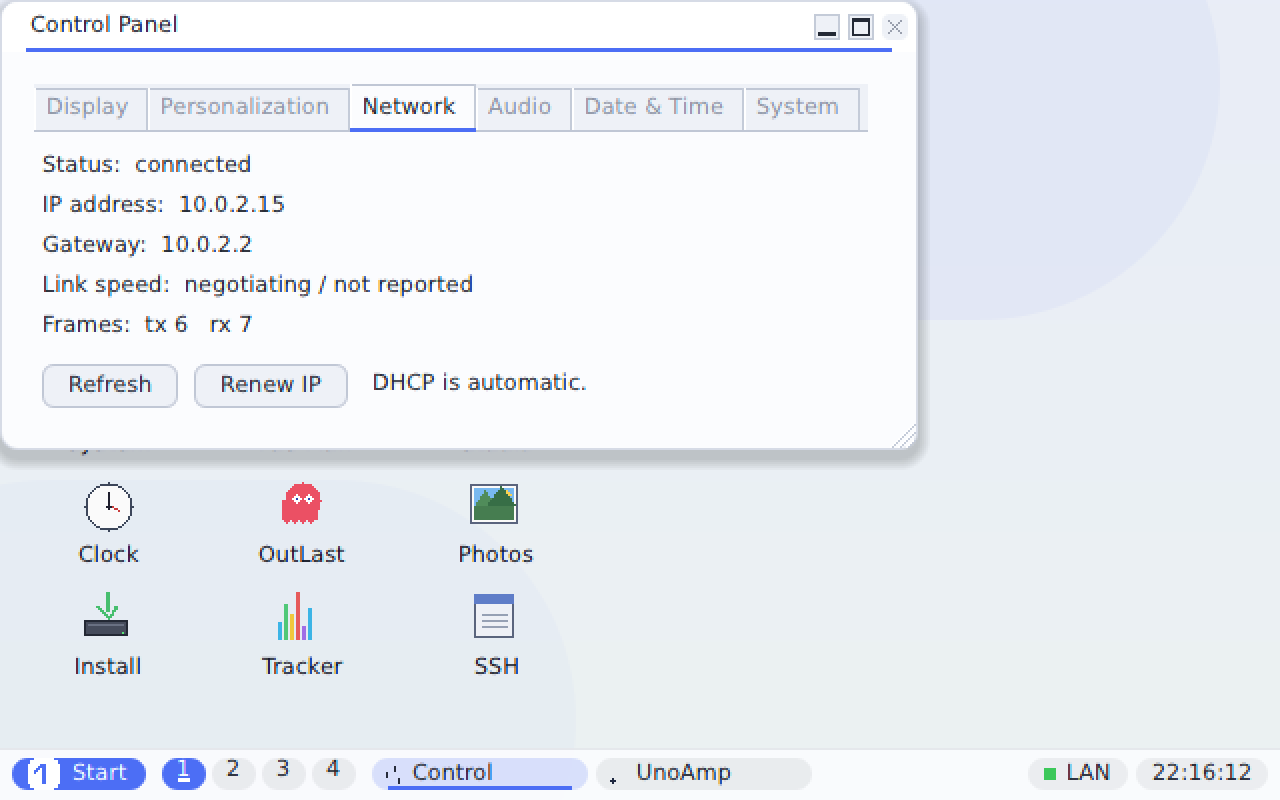
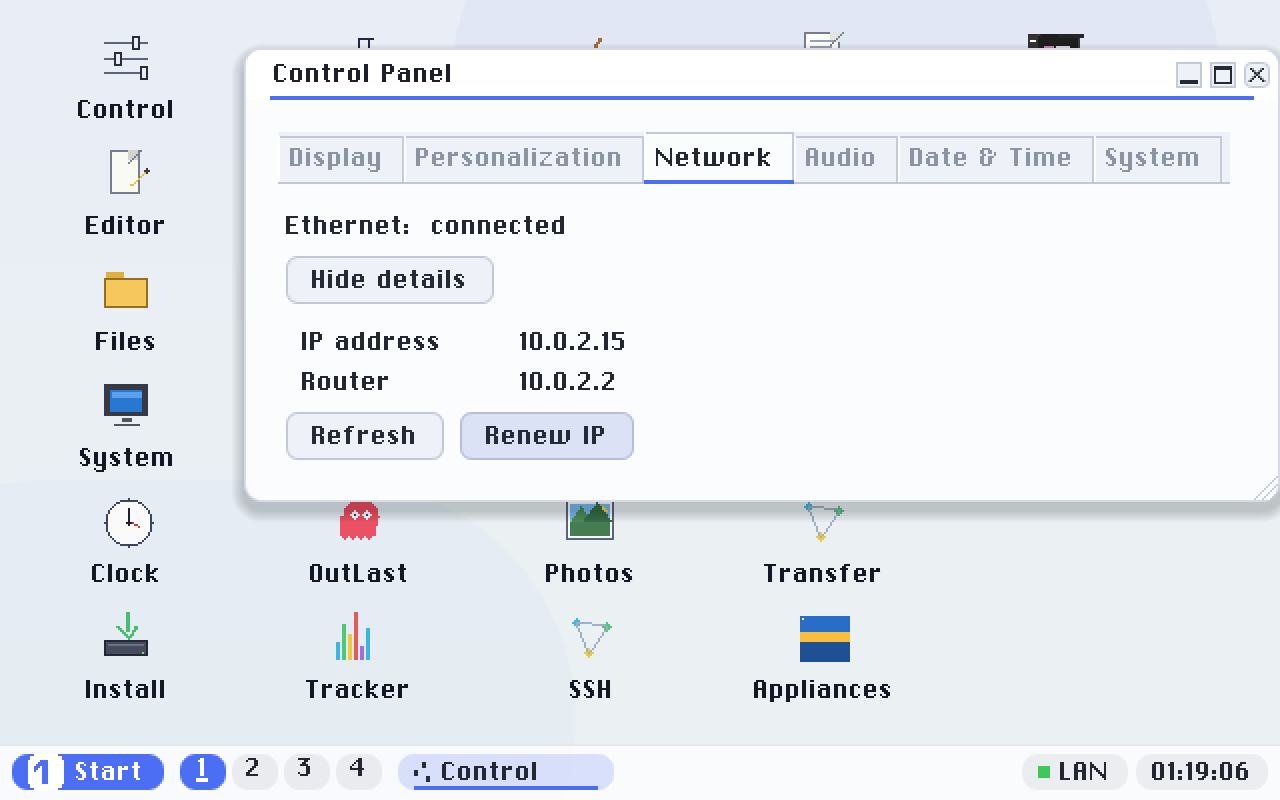
manual: catch up with master - Wi-Fi joins, the Network pane, the Android appliance
The Networking page said Wi-Fi was not usable and described a Network tab
that no longer exists. Now: Intel Wi-Fi joins a WPA2 network and takes an
address on a Surface Laptop Go (the claim stops where the metal evidence
stops - WPA3 authenticates but its handshake does not complete, switching
networks after a join is unreliable, the boot-time rejoin is fixed but not
yet watched on hardware); the Control Panel's Network tab leads with the
answer, keeps the addresses behind Details, and on a Wi-Fi machine carries
the network list and the only buttons that can act; the Network app is the
same summary with the self-test behind Run tests, not retired; the tray chip
names its medium. The driver tables on Overview and Developer say the same.

Appliances: the Android runtime boots to Firefox on the network from a cold
boot with nobody driving it (P1), installing an APK is real (P2), and
opening the installed app still says the runtime is not connected (P3 is
plan). Two figures from that unattended boot are added.

Figures: cp_network.png retaken on the production build, with Details open
(docs_shots walks the Tab order: Details, then Refresh). cp_wifi.png is the
Wi-Fi pane under DEBUG.CFG wifi-demo via tools/wifiui_shot.py, upscaled 2x
nearest-neighbour so it matches the other figures, which are 640x400
desktops presented at 1280x800; its caption says the networks are seeded.

Harness: unoapps retries a failed app once on a fresh guest, and waits up
[…]

diff --git a/docs/networking.html b/docs/networking.html
@@ -83,17 +83,19 @@
 <main class="main"><div class="wrap">
 
 <h1>Networking</h1>
-<p class="lede">UnoDOS can get online by itself: it connects over Ethernet, gets an address automatically,
-and browses the web, including secure sites.</p>
+<p class="lede">UnoDOS can get online by itself: it connects over Ethernet, and over Wi-Fi on Intel adapters,
+gets an address automatically, and browses the web, including secure sites.</p>
 
 <h2 id="online">Getting online</h2>
-<p>UnoDOS has its own built-in networking. On a PC with a supported wired network adapter, it gets an
-address automatically (DHCP), resolves names (DNS), finds the gateway and other machines, and browses the
-web over HTTP and HTTPS. Nothing else needs to be installed.</p>
+<p>UnoDOS has its own built-in networking. On a PC with a supported wired network adapter, or a supported
+Intel Wi-Fi adapter, it gets an address automatically (DHCP), resolves names (DNS), finds the gateway and
+other machines, and browses the web over HTTP and HTTPS. Nothing else needs to be installed.</p>
 <p>A small <strong>network chip</strong> sits in the taskbar tray so you can see the state at a
-glance: <strong>LAN</strong> when it has an address, <strong>LAN?</strong> when the cable is live but no
+glance: it names the medium - <strong>LAN</strong> over a cable, <strong>Wi-Fi</strong> over the air -
+with a question mark after it (<strong>LAN?</strong>, <strong>Wi-Fi?</strong>) while the link is up but no
 address has arrived yet, and nothing when the link is down. A dot beside it blinks on traffic - amber while
-sending, green while receiving - and hovering the chip shows a tooltip with the current address and link speed.
+sending, green while receiving. Hovering the chip shows a tooltip: on Wi-Fi it leads with the network's name
+and signal, on a cable with the address and link speed.
 The <a href="apps.html#native">System</a> app spells it out in full, for example
 <code>Network: link up, IP 192.168.2.157</code>.</p>
 
@@ -112,11 +114,20 @@ with an onboard RTL8168 links at gigabit, takes a DHCP address and browses, with
 <div class="note"><b>How this is verified</b>The Intel drivers are verified in the emulator against the QEMU e1000 / e1000e / igb models, and the Realtek driver on a real machine. Most test <em>laptops</em> have no wired port, so the built-in NIC on any given laptop may not have been exercised end to end - if a built-in port does not come up, a supported USB Ethernet adapter (below) is the reliable path.</div>
 
 <h2 id="status">Checking the connection</h2>
-<p>The <strong>Network</strong> tab in the <a href="appearance.html#control">Control Panel</a> shows the live
-connection in full: the status, the address and gateway from DHCP, the link speed, and a running count of the
-frames sent and received. A <strong>Refresh</strong> button re-reads it on demand.</p>
-<figure><button type="button" class="zoom" data-full="assets/img/cp_network.png" aria-label="Enlarge: The Control Panel&#x27;s Network tab: connected, with a DHCP address and gateway and the frame counters ticking. The green LAN chip in the tray corner mirrors the same state."><img src="assets/img/cp_network.png" alt="The Control Panel&#x27;s Network tab: connected, with a DHCP address and gateway and the frame counters ticking. The green LAN chip in the tray corner mirrors the same state." loading="lazy"></button><figcaption>The Control Panel's Network tab: connected, with a DHCP address and gateway and the frame counters ticking. The green <b>LAN</b> chip in the tray corner mirrors the same state.</figcaption></figure>
-<div class="note"><b>Where the old self-test went</b>A standalone "Network" app used to run a scripted link/DHCP/ping/TLS self-test. That app was retired - its live status moved here to the Control Panel, and the automated self-test now runs at boot on debug builds (armed from <code>DEBUG.CFG</code>) and logs to <code>CRASH\\NETLOG.TXT</code>.</div>
+<p>The <strong>Network</strong> tab in the <a href="appearance.html#control">Control Panel</a> answers the
+question first and keeps the detail for later. On a wired machine it is one line - <em>Ethernet: connected -
+1 Gbps</em>, or <em>cable in, no address</em> while DHCP is still at work - and a <strong>Details</strong>
+button that opens the addresses underneath: the IP address, the router, and on a machine with Wi-Fi the
+adapter's own address, with <strong>Refresh</strong> and <strong>Renew IP</strong> under them.</p>
+<figure><button type="button" class="zoom" data-full="assets/img/cp_network.png" aria-label="Enlarge: The Control Panel&#x27;s Network tab on a wired machine, with Details open: the Ethernet line, then the addresses. The green LAN chip in the tray corner mirrors the same state."><img src="assets/img/cp_network.png" alt="The Control Panel&#x27;s Network tab on a wired machine, with Details open: the Ethernet line, then the addresses. The green LAN chip in the tray corner mirrors the same state." loading="lazy"></button><figcaption>The Control Panel's Network tab on a wired machine, with Details open: the Ethernet line, then the addresses. The green <b>LAN</b> chip in the tray corner mirrors the same state.</figcaption></figure>
+<p>On a machine with a Wi-Fi adapter the tab grows. It leads with <em>Connected to</em> and the network's
+name, with the signal, WPA2 or WPA3, and the address on the line under it. Then the networks in range, each
+with a padlock if it is secured, a four-bar signal meter, and a <em>Connected</em> or <em>Saved</em> marker.
+A password box appears only when the highlighted network is locked and new to this machine, and the buttons
+are only the ones that can do something at that moment: <strong>Connect</strong>, <strong>Disconnect</strong>,
+<strong>Forget</strong>, <strong>Rescan</strong>. The wired line and Details follow underneath.</p>
+<figure><button type="button" class="zoom" data-full="assets/img/cp_wifi.png" aria-label="Enlarge: The same tab on a machine with Wi-Fi: the answer, the networks, the controls, then the wired line and Details. Captured in the emulator, which has no Wi-Fi card, with a debug switch that draws the pane and seeds example networks - the pane says so on screen. On a laptop the list is what the radio hears."><img src="assets/img/cp_wifi.png" alt="The same tab on a machine with Wi-Fi: the answer, the networks, the controls, then the wired line and Details. Captured in the emulator, which has no Wi-Fi card, with a debug switch that draws the pane and seeds example networks - the pane says so on screen. On a laptop the list is what the radio hears." loading="lazy"></button><figcaption>The same tab on a machine with Wi-Fi: the answer, the networks, the controls, then the wired line and Details. Captured in the emulator, which has no Wi-Fi card, with a debug switch that draws the pane and seeds example networks - the pane says so on screen. On a laptop the list is what the radio hears.</figcaption></figure>
+<div class="note"><b>The Network app</b>The <strong>Network</strong> app in the Start menu shows the same summary in the same words, and keeps the network self-test - DHCP, a ping, a small file fetch, a TCP echo and a TLS handshake - behind a <strong>Run tests</strong> button rather than running it every time the window opens. The echo and TLS steps only have a peer under QEMU, so on a real machine those two time out rather than pass; the rest are real.</div>
 
 <h2 id="tls">Secure sites</h2>
 <p>Secure (<code>https://</code>) pages load over an encrypted TLS connection, and UnoDOS checks the site's
@@ -139,23 +150,25 @@ Two chip families are supported - check a listing's chipset line before you buy:
 <div class="note tip"><b>Tested on metal</b>An ASIX AX88179A adapter has been taken all the way to a DHCP lease and a gateway ping on a real laptop (a ThinkPad X13 Yoga). The older ASIX AX88772 / AX88178A chips are <em>not</em> supported.</div>
 
 <h2 id="wifi">Wi-Fi</h2>
-<p><strong>Wi-Fi is not usable yet</strong>, though it is closer than it was. UnoDOS ships drivers for
-Intel (AX201 / AX210), Realtek and Marvell wireless chips. On Intel hardware the driver now loads the
-adapter's firmware, scans, <strong>joins a WPA2 network and installs the encryption keys</strong> - a real
-association, proven on a laptop. What does not yet work is the step after that: the network never hands
-back an address, so nothing can actually be reached. <strong>Use a wired port or a USB Ethernet adapter
-to get online.</strong></p>
+<p><strong>Wi-Fi works on Intel hardware, on one machine so far.</strong> UnoDOS ships drivers for
+Intel (AX201 / AX210), Realtek and Marvell wireless chips. On a Surface Laptop Go with an Intel AX201 the
+driver loads the adapter's firmware, scans, <strong>joins a WPA2 network and takes an address</strong> - a
+real association followed by a real DHCP lease, on the laptop rather than in the emulator. The Realtek and
+Marvell drivers still stop after loading firmware: they do not associate yet. <strong>On anything else, a
+wired port or a USB Ethernet adapter is still the sure way to get online.</strong></p>
+<p>Joining is done from the Control Panel's <strong>Network</strong> tab, described <a href="#status">above</a>:
+pick a network, type its password if it is locked and new to this machine, and press <strong>Connect</strong>.
+The password is kept, so the network shows as <em>Saved</em> and the next join asks for nothing;
+<strong>Forget</strong> discards it, and <strong>Disconnect</strong> leaves the network while keeping the
+radio on, so the list stays live. A machine that boots with a saved network in range is meant to rejoin it
+by itself; that boot-time join has been fixed but not yet watched on hardware.</p>
 <p>UnoDOS also speaks <strong>WPA3</strong> now, which matters more than it sounds: a modern access
 point with protected management frames required will refuse a machine that cannot offer them, and a
 6 GHz network is WPA3-only by regulation, so a WPA2-only machine is not "older", it is locked out.
 The supplicant reads what the access point is actually offering and negotiates, rather than
 announcing WPA2 and hoping - WPA2-PSK or WPA3-SAE, with management-frame protection when it is asked
 for, and SAE preferred on a network that offers both.</p>
-<div class="note warn"><b>WPA3: not yet proven on hardware</b>The WPA3 path is verified end to end against test vectors on a development machine, but it has <em>not</em> yet completed a join against a real access point. Treat it as written and tested, not as proven on your network.</div>
-<p>The Control Panel's <strong>Network</strong> tab already carries the interface it will use - a scan
-list, a password box and a <strong>Join</strong> button, with a spinner and a running description of each
-step while it works, since a join takes several seconds. Networks you join are remembered, so the machine
-can rejoin the last one by itself at the next boot.</p>
+<div class="note warn"><b>What does not work yet</b>The WPA3 exchange authenticates against a real access point, but the handshake after it does not complete yet, so on a network that offers both WPA3 and WPA2 UnoDOS falls back to WPA2 and joins. A WPA3-only network cannot be joined today. Two more limits are worth knowing: changing to a different network after a successful join does not work reliably yet, and a reboot is the sure way to do it; and the join itself holds the desktop for the few seconds the association takes, with a spinner and a running description of each step.</div>
 
 <h2 id="emulator">Networking in the browser</h2>
 <p>UnoDOS <a href="https://unodos.arinbakht.com/try/">running in a browser tab</a> has a working network

diff --git a/docs/appliances.html b/docs/appliances.html
@@ -145,7 +145,9 @@ understands, and it holds up to eight appliances.</p>
 <p>The same machinery is meant to end somewhere specific: you double-click an Android <code>.APK</code>
 in Files, an icon appears on the desktop, and opening it opens a window. No launcher, and nothing on
 screen that says "Android".</p>
-<div class="note warn"><b>Installing works, running does not</b><b>Half of that works today.</b> Installing is real: UnoDOS reads the package, registers it, and the icon appears without a reboot. <b>Opening it does not run anything yet</b> - the channel between the app and the Android runtime is the next piece of work, so the app tells you the runtime is not connected. The Android runtime itself does boot on the appliance kernel. Treat this section as a description of where it is going, not as a feature to use.</div>
+<div class="note warn"><b>Installing works, the runtime runs, opening does not yet</b><b>Installing works, and the runtime runs; the two are not joined yet.</b> Installing is real: UnoDOS reads the package, registers it, the icon appears without a reboot, and it is still there after a restart. The Android runtime is real too: the appliance boots, starts the Android container, installs the app it carries and puts it on screen full-size and on the network, from a cold boot with nobody driving it - the two figures below are that boot. What is missing is the channel between the desktop icon and that runtime, so <b>opening an installed foreign app today tells you the runtime is not connected</b>. Treat this section as a description of where it is going, not as a feature to use.</div>
+<figure><button type="button" class="zoom" data-full="assets/img/android_launch.png" aria-label="Enlarge: The Android appliance, booted with nobody driving it: Firefox full-screen, with no launcher and no status bar in sight."><img src="assets/img/android_launch.png" alt="The Android appliance, booted with nobody driving it: Firefox full-screen, with no launcher and no status bar in sight." loading="lazy"></button><figcaption>The Android appliance, booted with nobody driving it: Firefox full-screen, with no launcher and no status bar in sight.</figcaption></figure>
+<figure><button type="button" class="zoom" data-full="assets/img/android_firefox.png" aria-label="Enlarge: The same appliance a moment later: a real page over TLS, its address typed on the keyboard UnoDOS presents to the guest."><img src="assets/img/android_firefox.png" alt="The same appliance a moment later: a real page over TLS, its address typed on the keyboard UnoDOS presents to the guest." loading="lazy"></button><figcaption>The same appliance a moment later: a real page over TLS, its address typed on the keyboard UnoDOS presents to the guest.</figcaption></figure>
 <p>One consequence is worth knowing even at this stage: the package file is <strong>not copied</strong>
 onto the UnoDOS disk, because the filesystem underneath writes whole files only and a large package would
 have to be held in memory all at once. The installed app remembers where you put the package, so deleting

diff --git a/docs/dev-api.html b/docs/dev-api.html
@@ -226,7 +226,7 @@ int  fb_big_text(int x,int y,const char *s,fb_px fg,long bg,int scale);
 <tr><td><code>pc64_http</code> / <code>pc64_browser</code> / <code>js</code></td><td>HTTP/1.0 GET with DNS, the immediate-mode HTML/Markdown/CSS renderer, and the JavaScript interpreter.</td></tr>
 <tr><td><code>tls</code> / <code>bearssl</code></td><td>Freestanding BearSSL, TLS 1.2, with pinned-key and CA-validated (14 roots) modes; clock from the UEFI RTC.</td></tr>
 <tr><td><code>xhci</code> / <code>ax88179</code> / <code>rtl8152</code> / <code>usbmsc</code></td><td>Opt-in (<code>-DUNO_XHCI</code>) polled xHCI host, ASIX and Realtek USB-gigabit drivers (each publishing a <code>uno_nic_t</code>), and USB mass storage (Bulk-Only Transport).</td></tr>
-<tr><td><code>iwlwifi</code> / <code>rtwifi</code> / <code>mrvlwifi</code></td><td>Early Intel (AX201/AX210), Realtek and Marvell Wi-Fi drivers. They map the device and load its firmware, but association is not yet working on any hardware.</td></tr>
+<tr><td><code>iwlwifi</code> / <code>rtwifi</code> / <code>mrvlwifi</code></td><td>Intel (AX201/AX210), Realtek and Marvell Wi-Fi drivers. The Intel driver loads firmware, scans, joins a WPA2 network and holds a DHCP lease on real hardware (a Surface Laptop Go); WPA3 authenticates but its handshake does not complete yet. Realtek and Marvell map the device and load its firmware, but do not associate yet.</td></tr>
 <tr><td><code>pc64_font</code></td><td>Optional TrueType engine; registers as the fb text provider with subpixel smoothing, falling back to the built-in bitmap font.</td></tr>
 <tr><td><code>unovirt</code> / <code>hv_vmx</code> / <code>hv_svm</code> / <code>unovdev</code></td><td>The hypervisor behind <a href="appliances.html">Appliances</a>: a capability gate that says whether this machine can host a guest and why not, a backend seam with Intel VMX and AMD SVM implementations, second-stage paging into a memory carve taken at detach, a budgeted slice run from the shell's frame loop, and virtio-mmio device models (console, block, net) plus the 8250 and 8259 a Linux kernel expects. Proven on VMX; the SVM side builds but has not yet run a guest. See <a href="https://github.com/hmofet/unodos/blob/master/pc64/UNOVIRT.md" target="_blank" rel="noopener"><code>UNOVIRT.md</code></a>.</td></tr>
 </tbody>

diff --git a/docs/developer.html b/docs/developer.html
@@ -105,7 +105,7 @@ no host C library, no underlying OS. It ships two interchangeable desktops, sele
 <tr><td><strong>Toolkit (unoui)</strong></td><td>The portable widget core: windows, widgets, events, and a swappable theme (ten themes ship).</td></tr>
 <tr><td><strong>Framebuffer (fb)</strong></td><td>A 32-bit software framebuffer: clipping, alpha blend, gradients, anti-aliased rounded rects, fractional fill-scaling, and dirty-row present-on-change.</td></tr>
 <tr><td><strong>Platform (UEFI)</strong></td><td>A hand-rolled UEFI surface: the GOP framebuffer, keyboard, pointer, and Boot Services. No gnu-efi or EDK2.</td></tr>
-<tr><td><strong>Drivers (tail)</strong></td><td>Intel e1000 / e1000e / igb NICs (plus a Realtek RTL816x driver) and the TCP/IP + TLS stack, xHCI USB with ASIX and Realtek USB Ethernet, native AHCI / NVMe / SDHCI and USB mass storage, HD&nbsp;Audio and AC'97 PCM audio, early Intel/Realtek/Marvell Wi-Fi (firmware loads, not yet connecting), uno3d 3D, UnoSound, and the TrueType engine.</td></tr>
+<tr><td><strong>Drivers (tail)</strong></td><td>Intel e1000 / e1000e / igb NICs (plus a Realtek RTL816x driver) and the TCP/IP + TLS stack, xHCI USB with ASIX and Realtek USB Ethernet, native AHCI / NVMe / SDHCI and USB mass storage, HD&nbsp;Audio and AC'97 PCM audio, Intel Wi-Fi (AX201 / AX210: joins a WPA2 network and takes an address, on one laptop so far) and early Realtek / Marvell Wi-Fi (firmware loads, not yet connecting), uno3d 3D, UnoSound, and the TrueType engine.</td></tr>
 <tr><td><strong>Device manager (unodevices)</strong></td><td>Enumerates the PCI tree into a registry that reports every device and which driver, if any, claimed it - surfaced on-device through the <code>devices</code> remote verb and <code>uno.devices()</code>/<code>uno.pci()</code>. Read-only introspection today; driver auto-binding is a planned phase. A <a href="dev-remote.html#hwwdt">hardware-watchdog</a> primitive (the PCH TCO) lives alongside it as the remote guard's last-resort backstop.</td></tr>
 </tbody>
 </table></div>

diff --git a/docs/appearance.html b/docs/appearance.html
@@ -94,7 +94,7 @@ the Start menu, and its settings are grouped into <strong>six tabs</strong>:</p>
 <tbody>
 <tr><td><strong>Display</strong></td><td>Resolution, system-wide Font, UI scale (100&ndash;200%), and an "Aurora lite" switch that turns off live compositing on slower machines.</td></tr>
 <tr><td><strong>Personalization</strong></td><td>Theme, Dark mode, Wallpaper, and how the desktop icons arrange themselves.</td></tr>
-<tr><td><strong>Network</strong></td><td>Live connection status - address, gateway, link speed - with a Refresh button. See <a href="networking.html#status">Networking</a>.</td></tr>
+<tr><td><strong>Network</strong></td><td>The connection summary in the Control Panel's words, and the network self-test behind a Run tests button. See <a href="networking.html#status">Networking</a>.</td></tr>
 <tr><td><strong>Audio</strong></td><td>The Volume slider (it adjusts the output live, even mid-note, on HD&nbsp;Audio or AC'97 hardware) and the active output device.</td></tr>
 <tr><td><strong>Date &amp; Time</strong></td><td>Set the time and date, and choose a 24-hour or 12-hour clock.</td></tr>
 <tr><td><strong>System</strong></td><td>Battery display, session restore, lid-sleep, pointer speed, and buttons for accounts, licences and About.</td></tr>

diff --git a/docs/build_site.py b/docs/build_site.py
@@ -1298,7 +1298,7 @@ the Start menu, and its settings are grouped into <strong>six tabs</strong>:</p>
 <tbody>
 <tr><td><strong>Display</strong></td><td>Resolution, system-wide Font, UI scale (100&ndash;200%), and an "Aurora lite" switch that turns off live compositing on slower machines.</td></tr>
 <tr><td><strong>Personalization</strong></td><td>Theme, Dark mode, Wallpaper, and how the desktop icons arrange themselves.</td></tr>
-<tr><td><strong>Network</strong></td><td>Live connection status - address, gateway, link speed - with a Refresh button. See <a href="networking.html#status">Networking</a>.</td></tr>
+<tr><td><strong>Network</strong></td><td>The connection summary in the Control Panel's words, and the network self-test behind a Run tests button. See <a href="networking.html#status">Networking</a>.</td></tr>
 <tr><td><strong>Audio</strong></td><td>The Volume slider (it adjusts the output live, even mid-note, on HD&nbsp;Audio or AC'97 hardware) and the active output device.</td></tr>
 <tr><td><strong>Date &amp; Time</strong></td><td>Set the time and date, and choose a 24-hour or 12-hour clock.</td></tr>
 <tr><td><strong>System</strong></td><td>Battery display, session restore, lid-sleep, pointer speed, and buttons for accounts, licences and About.</td></tr>
@@ -1883,17 +1883,19 @@ running.</p>
 
 PAGES["networking.html"] = ("Networking", f"""
 <h1>Networking</h1>
-<p class="lede">UnoDOS can get online by itself: it connects over Ethernet, gets an address automatically,
-and browses the web, including secure sites.</p>
+<p class="lede">UnoDOS can get online by itself: it connects over Ethernet, and over Wi-Fi on Intel adapters,
+gets an address automatically, and browses the web, including secure sites.</p>
 
 <h2 id="online">Getting online</h2>
-<p>UnoDOS has its own built-in networking. On a PC with a supported wired network adapter, it gets an
-address automatically (DHCP), resolves names (DNS), finds the gateway and other machines, and browses the
-web over HTTP and HTTPS. Nothing else needs to be installed.</p>
+<p>UnoDOS has its own built-in networking. On a PC with a supported wired network adapter, or a supported
+Intel Wi-Fi adapter, it gets an address automatically (DHCP), resolves names (DNS), finds the gateway and
+other machines, and browses the web over HTTP and HTTPS. Nothing else needs to be installed.</p>
 <p>A small <strong>network chip</strong> sits in the taskbar tray so you can see the state at a
-glance: <strong>LAN</strong> when it has an address, <strong>LAN?</strong> when the cable is live but no
+glance: it names the medium - <strong>LAN</strong> over a cable, <strong>Wi-Fi</strong> over the air -
+with a question mark after it (<strong>LAN?</strong>, <strong>Wi-Fi?</strong>) while the link is up but no
 address has arrived yet, and nothing when the link is down. A dot beside it blinks on traffic - amber while
-sending, green while receiving - and hovering the chip shows a tooltip with the current address and link speed.
+sending, green while receiving. Hovering the chip shows a tooltip: on Wi-Fi it leads with the network's name
+and signal, on a cable with the address and link speed.
 The <a href="apps.html#native">System</a> app spells it out in full, for example
 <code>Network: link up, IP 192.168.2.157</code>.</p>
 
@@ -1912,11 +1914,20 @@ with an onboard RTL8168 links at gigabit, takes a DHCP address and browses, with
 {note('The Intel drivers are verified in the emulator against the QEMU e1000 / e1000e / igb models, and the Realtek driver on a real machine. Most test <em>laptops</em> have no wired port, so the built-in NIC on any given laptop may not have been exercised end to end - if a built-in port does not come up, a supported USB Ethernet adapter (below) is the reliable path.', title="How this is verified")}
 
 <h2 id="status">Checking the connection</h2>
-<p>The <strong>Network</strong> tab in the <a href="appearance.html#control">Control Panel</a> shows the live
-connection in full: the status, the address and gateway from DHCP, the link speed, and a running count of the
-frames sent and received. A <strong>Refresh</strong> button re-reads it on demand.</p>
-{fig("cp_network.png", "The Control Panel's Network tab: connected, with a DHCP address and gateway and the frame counters ticking. The green <b>LAN</b> chip in the tray corner mirrors the same state.")}
-{note('A standalone "Network" app used to run a scripted link/DHCP/ping/TLS self-test. That app was retired - its live status moved here to the Control Panel, and the automated self-test now runs at boot on debug builds (armed from <code>DEBUG.CFG</code>) and logs to <code>CRASH\\\\NETLOG.TXT</code>.', title="Where the old self-test went")}
+<p>The <strong>Network</strong> tab in the <a href="appearance.html#control">Control Panel</a> answers the
+question first and keeps the detail for later. On a wired machine it is one line - <em>Ethernet: connected -
+1 Gbps</em>, or <em>cable in, no address</em> while DHCP is still at work - and a <strong>Details</strong>
+button that opens the addresses underneath: the IP address, the router, and on a machine with Wi-Fi the
+adapter's own address, with <strong>Refresh</strong> and <strong>Renew IP</strong> under them.</p>
+{fig("cp_network.png", "The Control Panel's Network tab on a wired machine, with Details open: the Ethernet line, then the addresses. The green <b>LAN</b> chip in the tray corner mirrors the same state.")}
+<p>On a machine with a Wi-Fi adapter the tab grows. It leads with <em>Connected to</em> and the network's
+name, with the signal, WPA2 or WPA3, and the address on the line under it. Then the networks in range, each
+with a padlock if it is secured, a four-bar signal meter, and a <em>Connected</em> or <em>Saved</em> marker.
+A password box appears only when the highlighted network is locked and new to this machine, and the buttons
+are only the ones that can do something at that moment: <strong>Connect</strong>, <strong>Disconnect</strong>,
+<strong>Forget</strong>, <strong>Rescan</strong>. The wired line and Details follow underneath.</p>
+{fig("cp_wifi.png", "The same tab on a machine with Wi-Fi: the answer, the networks, the controls, then the wired line and Details. Captured in the emulator, which has no Wi-Fi card, with a debug switch that draws the pane and seeds example networks - the pane says so on screen. On a laptop the list is what the radio hears.")}
+{note('The <strong>Network</strong> app in the Start menu shows the same summary in the same words, and keeps the network self-test - DHCP, a ping, a small file fetch, a TCP echo and a TLS handshake - behind a <strong>Run tests</strong> button rather than running it every time the window opens. The echo and TLS steps only have a peer under QEMU, so on a real machine those two time out rather than pass; the rest are real.', title="The Network app")}
 
 <h2 id="tls">Secure sites</h2>
 <p>Secure (<code>https://</code>) pages load over an encrypted TLS connection, and UnoDOS checks the site's
@@ -1939,23 +1950,25 @@ Two chip families are supported - check a listing's chipset line before you buy:
 {note('An ASIX AX88179A adapter has been taken all the way to a DHCP lease and a gateway ping on a real laptop (a ThinkPad X13 Yoga). The older ASIX AX88772 / AX88178A chips are <em>not</em> supported.', kind="tip", title="Tested on metal")}
 
 <h2 id="wifi">Wi-Fi</h2>
-<p><strong>Wi-Fi is not usable yet</strong>, though it is closer than it was. UnoDOS ships drivers for
-Intel (AX201 / AX210), Realtek and Marvell wireless chips. On Intel hardware the driver now loads the
-adapter's firmware, scans, <strong>joins a WPA2 network and installs the encryption keys</strong> - a real
-association, proven on a laptop. What does not yet work is the step after that: the network never hands
-back an address, so nothing can actually be reached. <strong>Use a wired port or a USB Ethernet adapter
-to get online.</strong></p>
+<p><strong>Wi-Fi works on Intel hardware, on one machine so far.</strong> UnoDOS ships drivers for
+Intel (AX201 / AX210), Realtek and Marvell wireless chips. On a Surface Laptop Go with an Intel AX201 the
+driver loads the adapter's firmware, scans, <strong>joins a WPA2 network and takes an address</strong> - a
+real association followed by a real DHCP lease, on the laptop rather than in the emulator. The Realtek and
+Marvell drivers still stop after loading firmware: they do not associate yet. <strong>On anything else, a
+wired port or a USB Ethernet adapter is still the sure way to get online.</strong></p>
+<p>Joining is done from the Control Panel's <strong>Network</strong> tab, described <a href="#status">above</a>:
+pick a network, type its password if it is locked and new to this machine, and press <strong>Connect</strong>.
+The password is kept, so the network shows as <em>Saved</em> and the next join asks for nothing;
+<strong>Forget</strong> discards it, and <strong>Disconnect</strong> leaves the network while keeping the
+radio on, so the list stays live. A machine that boots with a saved network in range is meant to rejoin it
+by itself; that boot-time join has been fixed but not yet watched on hardware.</p>
 <p>UnoDOS also speaks <strong>WPA3</strong> now, which matters more than it sounds: a modern access
 point with protected management frames required will refuse a machine that cannot offer them, and a
 6 GHz network is WPA3-only by regulation, so a WPA2-only machine is not "older", it is locked out.
 The supplicant reads what the access point is actually offering and negotiates, rather than
 announcing WPA2 and hoping - WPA2-PSK or WPA3-SAE, with management-frame protection when it is asked
 for, and SAE preferred on a network that offers both.</p>
-{note('The WPA3 path is verified end to end against test vectors on a development machine, but it has <em>not</em> yet completed a join against a real access point. Treat it as written and tested, not as proven on your network.', kind="warn", title="WPA3: not yet proven on hardware")}
-<p>The Control Panel's <strong>Network</strong> tab already carries the interface it will use - a scan
-list, a password box and a <strong>Join</strong> button, with a spinner and a running description of each
-step while it works, since a join takes several seconds. Networks you join are remembered, so the machine
-can rejoin the last one by itself at the next boot.</p>
+{note('The WPA3 exchange authenticates against a real access point, but the handshake after it does not complete yet, so on a network that offers both WPA3 and WPA2 UnoDOS falls back to WPA2 and joins. A WPA3-only network cannot be joined today. Two more limits are worth knowing: changing to a different network after a successful join does not work reliably yet, and a reboot is the sure way to do it; and the join itself holds the desktop for the few seconds the association takes, with a spinner and a running description of each step.', kind="warn", title="What does not work yet")}
 
 <h2 id="emulator">Networking in the browser</h2>
 <p>UnoDOS <a href="https://unodos.arinbakht.com/try/">running in a browser tab</a> has a working network
@@ -2096,7 +2109,9 @@ understands, and it holds up to eight appliances.</p>
 <p>The same machinery is meant to end somewhere specific: you double-click an Android <code>.APK</code>
 in Files, an icon appears on the desktop, and opening it opens a window. No launcher, and nothing on
 screen that says "Android".</p>
-{note('<b>Half of that works today.</b> Installing is real: UnoDOS reads the package, registers it, and the icon appears without a reboot. <b>Opening it does not run anything yet</b> - the channel between the app and the Android runtime is the next piece of work, so the app tells you the runtime is not connected. The Android runtime itself does boot on the appliance kernel. Treat this section as a description of where it is going, not as a feature to use.', kind="warn", title="Installing works, running does not")}
+{note('<b>Installing works, and the runtime runs; the two are not joined yet.</b> Installing is real: UnoDOS reads the package, registers it, the icon appears without a reboot, and it is still there after a restart. The Android runtime is real too: the appliance boots, starts the Android container, installs the app it carries and puts it on screen full-size and on the network, from a cold boot with nobody driving it - the two figures below are that boot. What is missing is the channel between the desktop icon and that runtime, so <b>opening an installed foreign app today tells you the runtime is not connected</b>. Treat this section as a description of where it is going, not as a feature to use.', kind="warn", title="Installing works, the runtime runs, opening does not yet")}
+{fig("android_launch.png", "The Android appliance, booted with nobody driving it: Firefox full-screen, with no launcher and no status bar in sight.")}
+{fig("android_firefox.png", "The same appliance a moment later: a real page over TLS, its address typed on the keyboard UnoDOS presents to the guest.")}
 <p>One consequence is worth knowing even at this stage: the package file is <strong>not copied</strong>
 onto the UnoDOS disk, because the filesystem underneath writes whole files only and a large package would
 have to be held in memory all at once. The installed app remembers where you put the package, so deleting
@@ -2214,7 +2229,7 @@ no host C library, no underlying OS. It ships two interchangeable desktops, sele
 <tr><td><strong>Toolkit (unoui)</strong></td><td>The portable widget core: windows, widgets, events, and a swappable theme (ten themes ship).</td></tr>
 <tr><td><strong>Framebuffer (fb)</strong></td><td>A 32-bit software framebuffer: clipping, alpha blend, gradients, anti-aliased rounded rects, fractional fill-scaling, and dirty-row present-on-change.</td></tr>
 <tr><td><strong>Platform (UEFI)</strong></td><td>A hand-rolled UEFI surface: the GOP framebuffer, keyboard, pointer, and Boot Services. No gnu-efi or EDK2.</td></tr>
-<tr><td><strong>Drivers (tail)</strong></td><td>Intel e1000 / e1000e / igb NICs (plus a Realtek RTL816x driver) and the TCP/IP + TLS stack, xHCI USB with ASIX and Realtek USB Ethernet, native AHCI / NVMe / SDHCI and USB mass storage, HD&nbsp;Audio and AC'97 PCM audio, early Intel/Realtek/Marvell Wi-Fi (firmware loads, not yet connecting), uno3d 3D, UnoSound, and the TrueType engine.</td></tr>
+<tr><td><strong>Drivers (tail)</strong></td><td>Intel e1000 / e1000e / igb NICs (plus a Realtek RTL816x driver) and the TCP/IP + TLS stack, xHCI USB with ASIX and Realtek USB Ethernet, native AHCI / NVMe / SDHCI and USB mass storage, HD&nbsp;Audio and AC'97 PCM audio, Intel Wi-Fi (AX201 / AX210: joins a WPA2 network and takes an address, on one laptop so far) and early Realtek / Marvell Wi-Fi (firmware loads, not yet connecting), uno3d 3D, UnoSound, and the TrueType engine.</td></tr>
 <tr><td><strong>Device manager (unodevices)</strong></td><td>Enumerates the PCI tree into a registry that reports every device and which driver, if any, claimed it - surfaced on-device through the <code>devices</code> remote verb and <code>uno.devices()</code>/<code>uno.pci()</code>. Read-only introspection today; driver auto-binding is a planned phase. A <a href="dev-remote.html#hwwdt">hardware-watchdog</a> primitive (the PCH TCO) lives alongside it as the remote guard's last-resort backstop.</td></tr>
 </tbody>
 </table></div>
@@ -3920,7 +3935,7 @@ falls back to the portable default, so the same widgets render on 1-bit through 
 <tr><td><code>pc64_http</code> / <code>pc64_browser</code> / <code>js</code></td><td>HTTP/1.0 GET with DNS, the immediate-mode HTML/Markdown/CSS renderer, and the JavaScript interpreter.</td></tr>
 <tr><td><code>tls</code> / <code>bearssl</code></td><td>Freestanding BearSSL, TLS 1.2, with pinned-key and CA-validated (14 roots) modes; clock from the UEFI RTC.</td></tr>
 <tr><td><code>xhci</code> / <code>ax88179</code> / <code>rtl8152</code> / <code>usbmsc</code></td><td>Opt-in (<code>-DUNO_XHCI</code>) polled xHCI host, ASIX and Realtek USB-gigabit drivers (each publishing a <code>uno_nic_t</code>), and USB mass storage (Bulk-Only Transport).</td></tr>
-<tr><td><code>iwlwifi</code> / <code>rtwifi</code> / <code>mrvlwifi</code></td><td>Early Intel (AX201/AX210), Realtek and Marvell Wi-Fi drivers. They map the device and load its firmware, but association is not yet working on any hardware.</td></tr>
+<tr><td><code>iwlwifi</code> / <code>rtwifi</code> / <code>mrvlwifi</code></td><td>Intel (AX201/AX210), Realtek and Marvell Wi-Fi drivers. The Intel driver loads firmware, scans, joins a WPA2 network and holds a DHCP lease on real hardware (a Surface Laptop Go); WPA3 authenticates but its handshake does not complete yet. Realtek and Marvell map the device and load its firmware, but do not associate yet.</td></tr>
 <tr><td><code>pc64_font</code></td><td>Optional TrueType engine; registers as the fb text provider with subpixel smoothing, falling back to the built-in bitmap font.</td></tr>
 <tr><td><code>unovirt</code> / <code>hv_vmx</code> / <code>hv_svm</code> / <code>unovdev</code></td><td>The hypervisor behind <a href="appliances.html">Appliances</a>: a capability gate that says whether this machine can host a guest and why not, a backend seam with Intel VMX and AMD SVM implementations, second-stage paging into a memory carve taken at detach, a budgeted slice run from the shell's frame loop, and virtio-mmio device models (console, block, net) plus the 8250 and 8259 a Linux kernel expects. Proven on VMX; the SVM side builds but has not yet run a guest. See <a href="https://github.com/hmofet/unodos/blob/master/pc64/UNOVIRT.md" target="_blank" rel="noopener"><code>UNOVIRT.md</code></a>.</td></tr>
 </tbody>

diff --git a/pc64/harness.py b/pc64/harness.py
@@ -2975,7 +2975,9 @@ def unoapps():
         if not roster:
             print("unoapps: `apps list` named nothing - is this the DEBUG build?")
             return 1
-        for app_id, name in roster:
+        def run_one(ui, app_id, name):
+            """Launch one app by id and prove its window appeared.
+            Returns "ok", "skip" or "fail"; appends to skipped/fails/sticky."""
             # The assertion is on the window this launch ADDED, not on the whole
             # screen: anything left over from an app that would not close is
             # still there, and matching against it would let one app vouch for
@@ -2992,20 +2994,48 @@ def unoapps():
                 # Studio or PYRT last built, and there is nothing there yet.
                 skipped.append(app_id)
                 print("  %-9s skip - %s" % (app_id, str(e).strip() or "refused"))
-                continue
+                return "skip"
             new = opened(before, ui.windows())
+            # A window that is late is not a window that failed to open. Duum
+            # reads a 28 MB WAD through the Python runtime before it has
+            # anything to show; keep asking for up to 30 s before calling it.
+            deadline = time.time() + 30.0
+            while (not any(t.startswith(name) for t in new)
+                   and time.time() < deadline):
+                time.sleep(1.0)
+                new = opened(before, ui.windows())
             if not any(t.startswith(name) for t in new):
                 print("  %-9s FAIL - wanted %r, opened %s"
                       % (app_id, name, new or "no window"))
-                fails.append(app_id)
-                continue
+                return "fail"
             ui.shot("uno_" + app_id)
             shot_ids.append(app_id)
-            menu.append((app_id, name))
             print("  %-9s ok   %s%s" % (app_id, name,
                                         "   (behind: %s)" % ", ".join(before)
                                         if before else ""))
+            return "ok"
+
+        for app_id, name in roster:
+            if run_one(ui, app_id, name) == "fail":
+                fails.append(app_id)
         close_open(ui)
+
+    # A FAILURE AT THE END OF THE PASS IS NOT THE APP'S VERDICT. Duum opened
+    # no window as the 28th launch of a boot and opened one in a second on a
+    # fresh guest (2026-09-04): whatever twenty-seven launch-and-close cycles
+    # leave behind - the guest heap is fixed at 32 MB whatever QEMU is given -
+    # is not evidence about the app. So retry every failure on a fresh boot,
+    # once, and only then call it. The roster stays in registry order.
+    if fails:
+        retry, fails = list(fails), []
+        print("unoapps: retrying %s on a fresh guest" % ", ".join(retry))
+        names = dict(roster)
+        with UrcUi() as ui:
+            for app_id in retry:
+                if run_one(ui, app_id, names[app_id]) == "fail":
+                    fails.append(app_id)
+            close_open(ui)
+    menu = [(app_id, name) for app_id, name in roster if app_id in shot_ids]
 
     print("unoapps: %d shot, %d skipped, %d FAILED"
           % (len(shot_ids), len(skipped), len(fails)))

diff --git a/pc64/docs_shots.py b/pc64/docs_shots.py
@@ -813,10 +813,19 @@ def sc_cp_network(q):
     # Browser first, then read the live status in the tab (Refresh to update it).
     close_all(q); launch(q, A("browser"), settle=2.0)          # Browser
     text(q, "http://%s/" % DOCS_HOST); time.sleep(0.3)
-    key(q, "ret"); time.sleep(6.0)                   # DHCP+DNS+GET brings the link up
+    key(q, "ret"); time.sleep(10.0)                  # DHCP+DNS+GET brings the link up
     cp_open_tab(q, 2)                                # Display -> ... -> Network
-    key(q, "tab"); time.sleep(0.2)                   # strip -> Refresh button
-    key(q, "ret"); time.sleep(1.0)                   # click Refresh -> fresh status
+    # The pane leads with one line and keeps the addresses behind Details
+    # (2026-08-26). On a wired machine Details is the first button, and the
+    # pane rebuilds when it opens, so focus is walked from the strip again:
+    # Details, then Refresh, which re-reads the status with Details still open.
+    key(q, "tab"); time.sleep(0.2)                   # strip -> Details button
+    key(q, "ret"); time.sleep(1.0)                   # open the addresses
+    # Focus stays on the button just pressed (now "Hide details"), so ONE Tab
+    # reaches Refresh. Two reached Renew IP, which dropped the lease and
+    # photographed "waiting for an address" under a green LAN chip.
+    key(q, "tab"); time.sleep(0.2)                   # -> Refresh
+    key(q, "ret"); time.sleep(1.5)                   # fresh status
     shot(q, "cp_network")
 
 # The two live-network figures fetch example.com, the canonical illustrative

diff --git a/pc64/tools/remote_qemu.py b/pc64/tools/remote_qemu.py
@@ -110,7 +110,8 @@ def build_disk():
 def boot_qemu():
     sh(["cp", OVMF_VARS, VARS])
     cmd = [
-        "qemu-system-x86_64", "-machine", "q35", "-m", "512", "-cpu", "max",
+        "qemu-system-x86_64", "-machine", "q35",
+        "-m", os.environ.get("URC_MEM_MB", "512"), "-cpu", "max",
         "-drive", "if=pflash,format=raw,readonly=on,file=" + OVMF_CODE,
         "-drive", "if=pflash,format=raw,file=" + VARS,
         "-drive", "format=raw,file=" + DISK,
